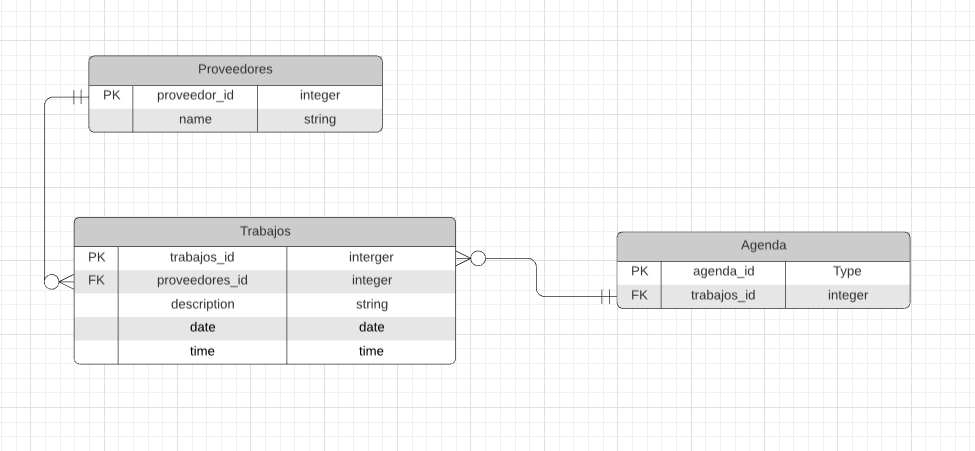
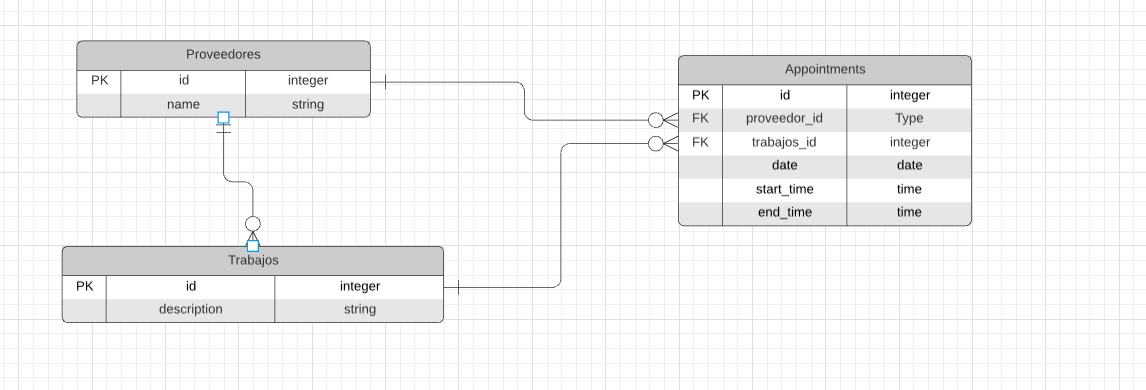
add screenshots and description of the project in the ReadMe file

diff --git a/config/routes.rb b/config/routes.rb
@@ -6,7 +6,10 @@ Rails.application.routes.draw do
   resources :appointments, only: %i[create index]
 
   get '/proveedores/:id/espacio/:date/:hour', to: 'appointments#espacio'
+
   get '/proveedores/free/:date', to: 'appointments#disponibles'
+
   get '/appointments/proveedores/:id', to: 'appointments#allAppointments'
+  
   get '/proveedores/:id/total_hours/:date', to: 'appointments#hours'
 end

diff --git a/README.md b/README.md
@@ -1,24 +1,127 @@
-# README
+# Mawi Challenge - Ruby on Rails Project 
 
-This README would normally document whatever steps are necessary to get the
-application up and running.
+This project was part of a process at Mawi.
+This object of the project was to handle information about providers, jobs and one agenda or appointments for each provider.
 
-Things you may want to cover:
+# Requirements for the Information
 
-* Ruby version
+• You must have registered providers.
+• Each provider can have "jobs" assigned.
+• Each job generates a lock in the supplier's agenda.
+• It is distributed by hours and by date.
 
-* System dependencies
+## This is the ERD made for this project
 
-* Configuration
+![](app/assets/ERD_mawi.png)
 
-* Database creation
 
-* Database initialization
+## Challenges inside the application
 
-* How to run the test suite
+1. Create an endpoint to validate if a provider has space for X date and X time.
+2. Create an endpoint to get all the providers available on X date.
+3. Create an endpoint that returns the jobs of a provider separated by days and ordered descending by hour and day
+4. An endpoint that returns the number of hours that a provider has scheduled per month.
 
-* Services (job queues, cache servers, search engines, etc.)
+## Solution 
 
-* Deployment instructions
+### Formats of the entries in the endpoints
 
-* ...
+
+id format: integer - Example: `1`
+
+date format: `%Y-%M-%D` - Example: `2021-10-21`
+
+time format: `%H:%M` - Example: `13:00` 
+
+
+### 1. End Point -  get `/proveedores/:id/espacio/:date/:hour`
+
+
+![screenshot](app/assets/solution-1.png)
+
+
+### 2. End Point -  get `/proveedores/free/:date`
+
+
+![screenshot](app/assets/solution-2.png)
+
+
+### 3. End Point -  get `/appointments/proveedores/:id`
+
+
+![screenshot](app/assets/solution-3.png)
+
+
+### 4. End Point -  get `/proveedores/:id/total_hours/:date`
+
+
+![screenshot](app/assets/solution-4.png)
+
+## Built and tested With
+
+- Ruby 2.7.4
+- Ruby on Rails 6.1.4.1
+- Postgres: >=9.5
+
+## Live demo link
+
+Visit the live demo [link]()
+
+## Setup
+
+Download the repo with this command
+
+`git clone git@github.com:alejandrotoledoweb/mawi-proveedores.git`
+
+`git checkout feature-app-mawi`
+
+`cd mawi-proveedores`
+
+
+Install the Gems and Dependencies
+
+`bundle install`
+
+Migrate the database and models, create the seed information
+
+`rails db:create`
+
+`rails db:migrate`
+
+`rails db:seed`
+
+## For the usage
+
+Run the server
+
+`rails server`
+
+Open in the browser `http://localhost:3000/`
+
+
+## Author
+
+👤 **Alejandro Toledo**
+
+- GitHub: [@alejandrotoledoweb](https://github.com/alejandrotoledoweb)
+- Twitter: [@alejot](https://twitter.com/alejot) 
+- LinkedIn: [Alejandro Toledo](https://www.linkedin.com/in/alejandro-toledo-3b444b109/) 
+
+## 🤝 Contributing
+
+Contributions, issues and feature requests are welcome!
+
+Feel free to check the [issues page](https://github.com/alejandrotoledoweb/mawi-proveedores/issues).
+
+## Show your support
+
+Give a ⭐ if you like this project!
+
+## Acknowledgments
+
+
+- Project inspired and challenged by Mawi.
+
+## 📝 License
+
+This project is [MIT](https://opensource.org/licenses/MIT) licensed.
